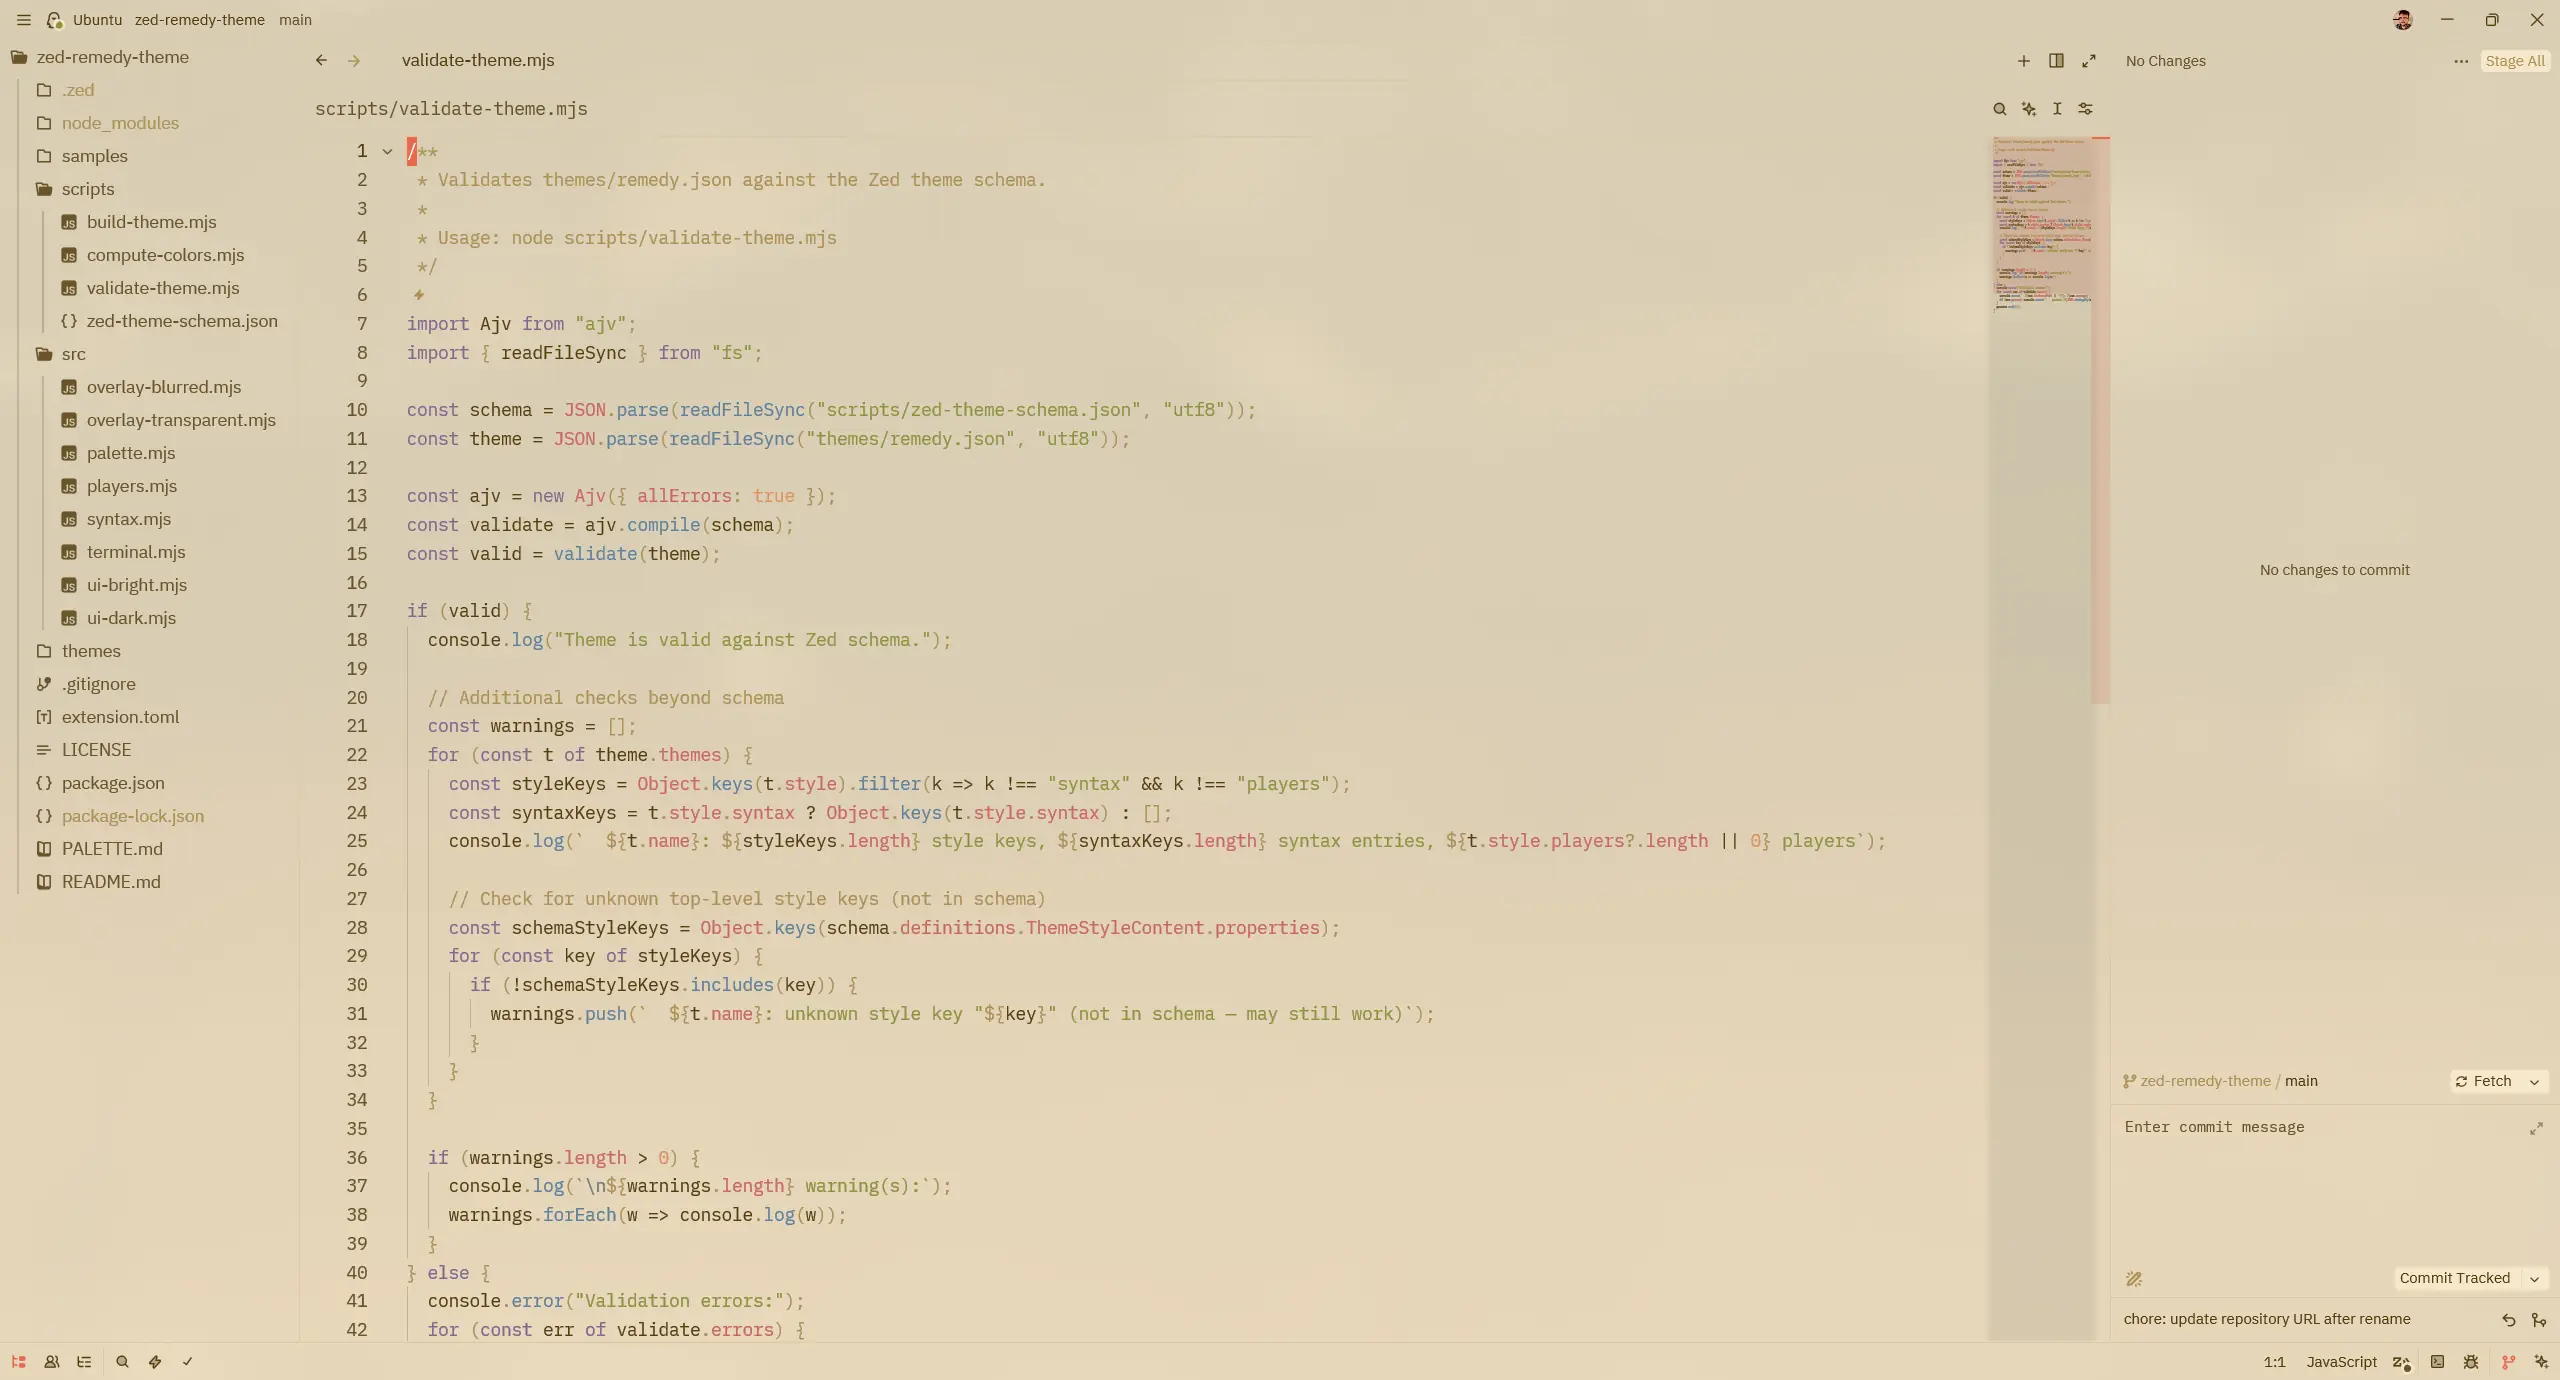
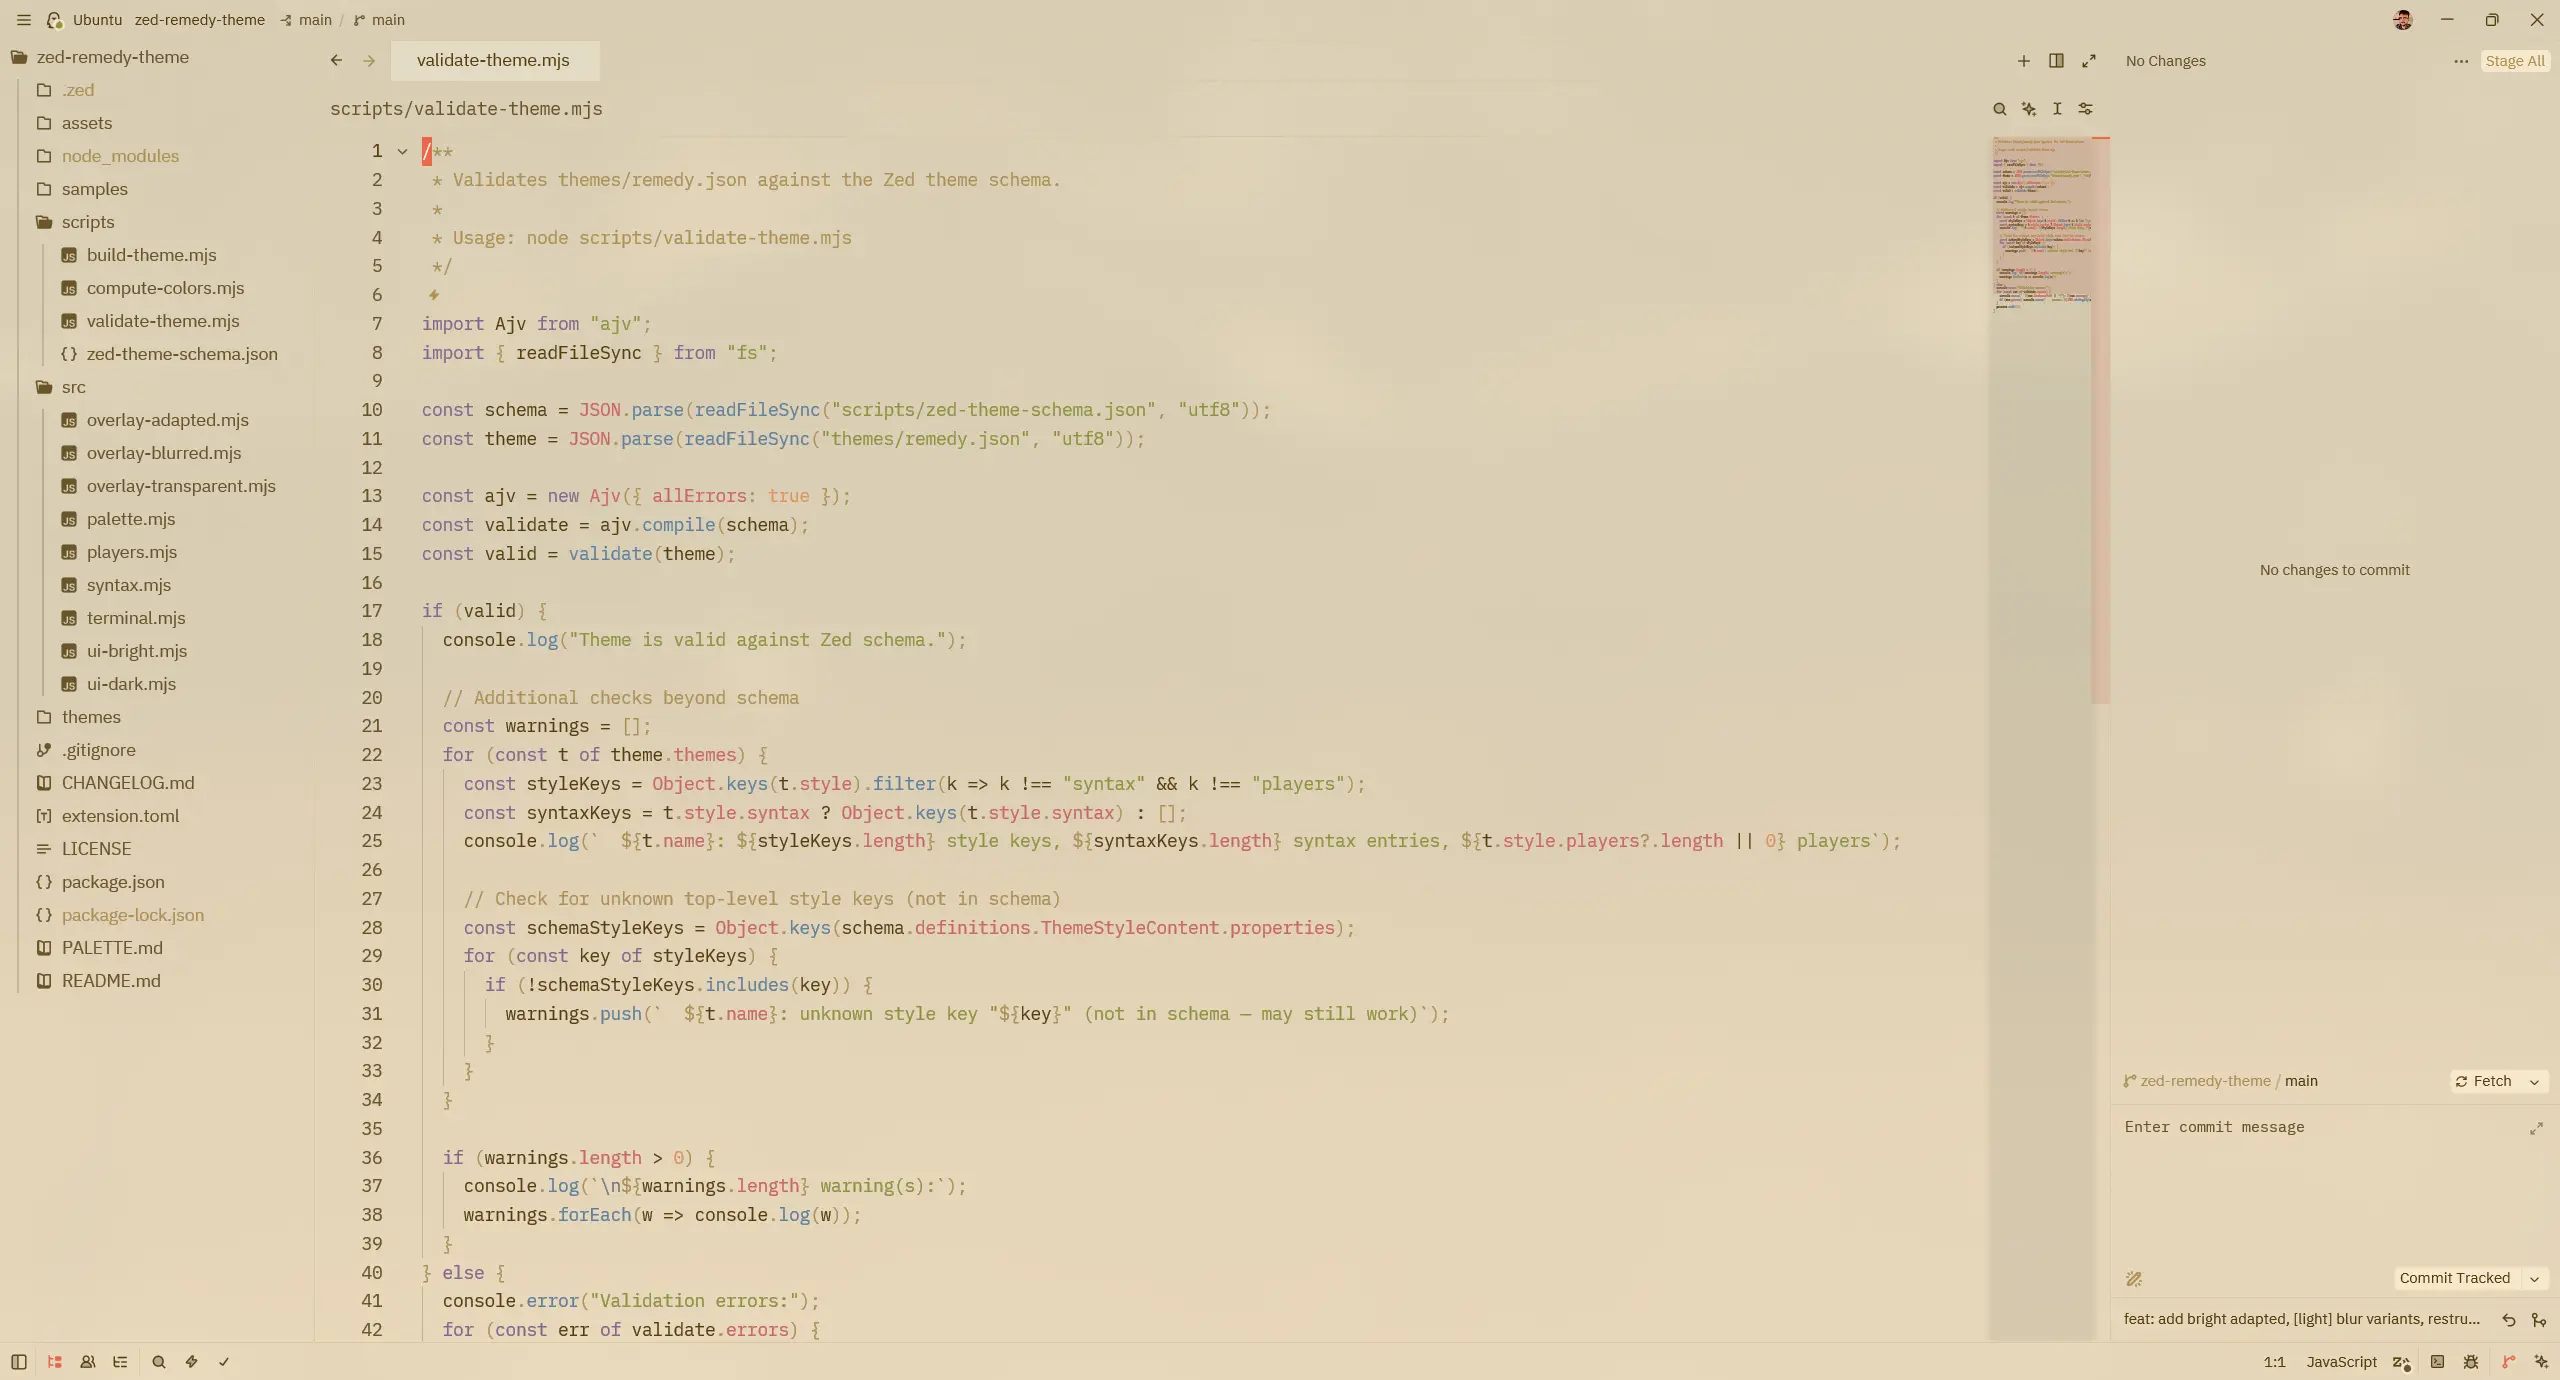
docs: add adapted and [light] screenshots, refresh blur/transparent
- New: dark-adapted, bright-adapted, dark-blur-light, bright-blur-light.
- Updated: dark-blur, bright-blur, dark-transparent, bright-transparent —
  reshot to capture the active-tab tint and (for dark) the inherited
  adapted lighter borders.
- Wire all eight into the README variants table.

diff --git a/README.md b/README.md
@@ -43,23 +43,23 @@ transparent without blur. The `[light]` blur variants drop chrome opacity from
   </tr>
   <tr>
     <th>Adapted</th>
-    <td><em>Screenshot coming soon</em></td>
-    <td><em>Screenshot coming soon</em></td>
+    <td><a href="assets/screenshots/dark-adapted.webp"><img src="assets/screenshots/dark-adapted.webp" width="100%" alt="Remedy Dark (adapted)"></a></td>
+    <td><a href="assets/screenshots/bright-adapted.webp"><img src="assets/screenshots/bright-adapted.webp" width="100%" alt="Remedy Bright (adapted)"></a></td>
   </tr>
   <tr>
     <th>Blur</th>
-    <td><em>Screenshot coming soon</em></td>
-    <td><em>Screenshot coming soon</em></td>
+    <td><a href="assets/screenshots/dark-blur.webp"><img src="assets/screenshots/dark-blur.webp" width="100%" alt="Remedy Dark (blur)"></a></td>
+    <td><a href="assets/screenshots/bright-blur.webp"><img src="assets/screenshots/bright-blur.webp" width="100%" alt="Remedy Bright (blur)"></a></td>
   </tr>
   <tr>
     <th>Blur [light]</th>
-    <td><em>Screenshot coming soon</em></td>
-    <td><em>Screenshot coming soon</em></td>
+    <td><a href="assets/screenshots/dark-blur-light.webp"><img src="assets/screenshots/dark-blur-light.webp" width="100%" alt="Remedy Dark (blur) [light]"></a></td>
+    <td><a href="assets/screenshots/bright-blur-light.webp"><img src="assets/screenshots/bright-blur-light.webp" width="100%" alt="Remedy Bright (blur) [light]"></a></td>
   </tr>
   <tr>
     <th>Transparent</th>
-    <td><em>Screenshot coming soon</em></td>
-    <td><em>Screenshot coming soon</em></td>
+    <td><a href="assets/screenshots/dark-transparent.webp"><img src="assets/screenshots/dark-transparent.webp" width="100%" alt="Remedy Dark (transparent)"></a></td>
+    <td><a href="assets/screenshots/bright-transparent.webp"><img src="assets/screenshots/bright-transparent.webp" width="100%" alt="Remedy Bright (transparent)"></a></td>
   </tr>
 </table>
 
